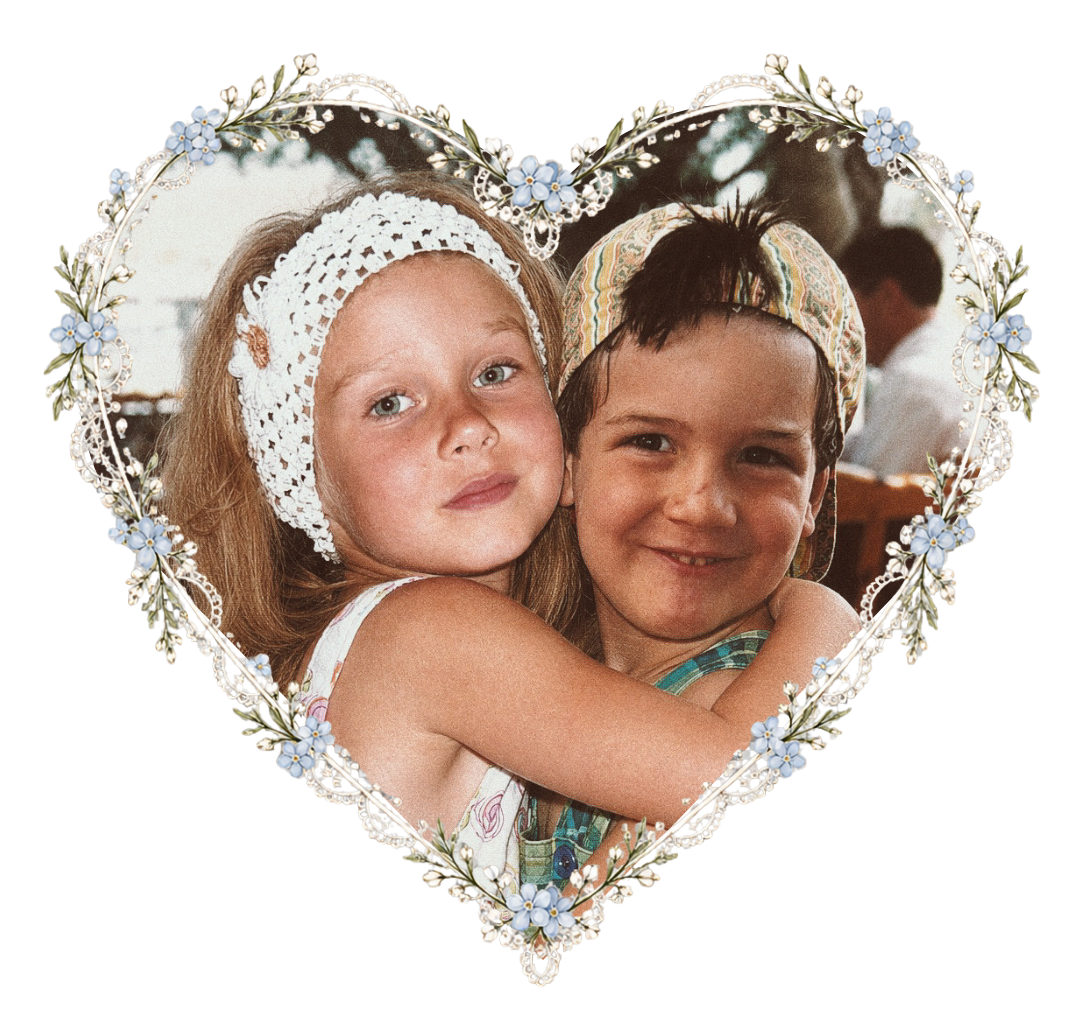
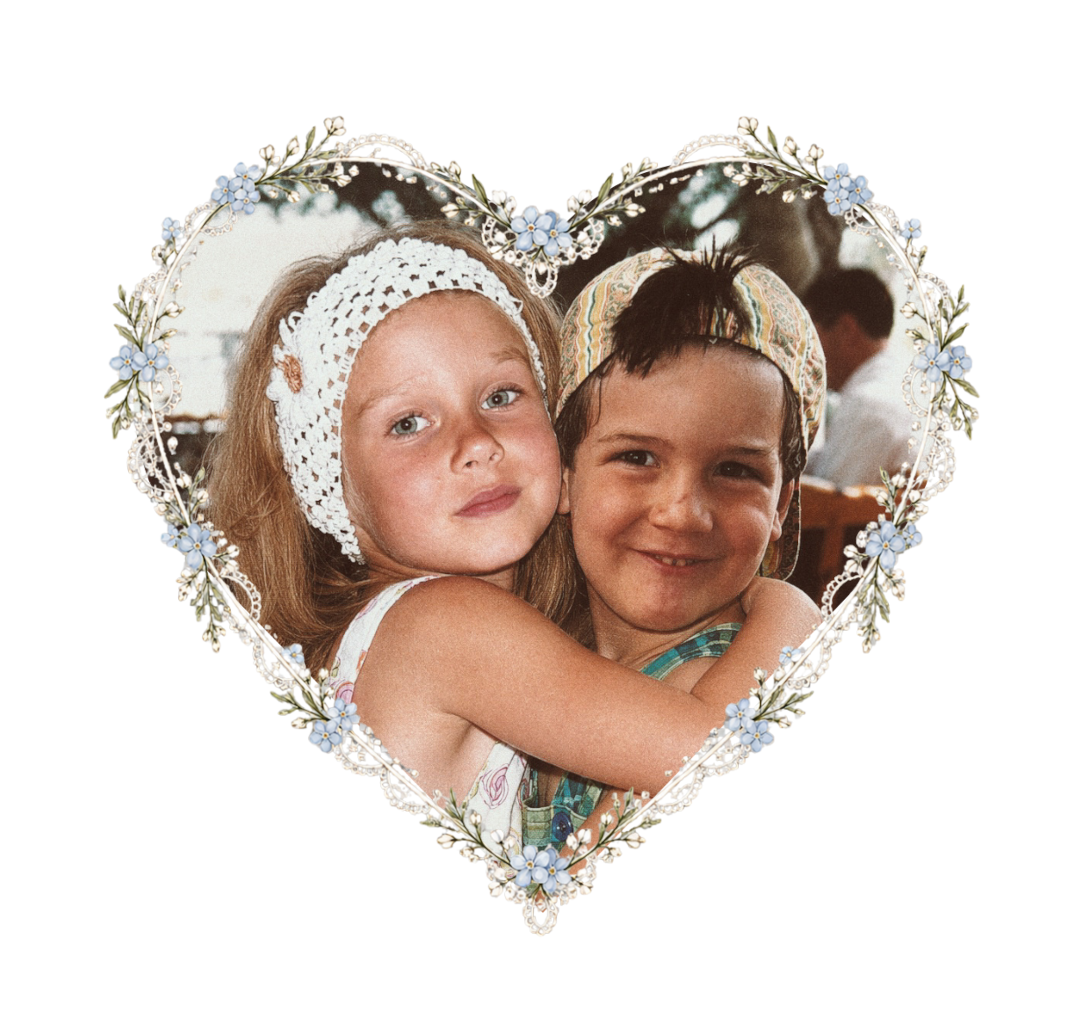
slight recolouring and image adjustement

diff --git a/css/styles.css b/css/styles.css
@@ -6,12 +6,14 @@
   --sky-whisper: #d6e6f2;
   --powder-blue: #b7cce3;
   --dusty-horizon: #87a8c6;
-  --ocean-breeze: #5d7896;
+  --ocean-breeze: #364b74;
+  --ocean-breeze-old: #5d7896;
   --arctic-mist: #e9f1f7;
   --pearl-ivory: #f6f3ec;
   --warm-ivory:#f3efe6;
   --silver-sage: #b9c6be;
   --deep-ocean: #3e5470; /* darker Ocean Breeze for readable body text */
+  --deeper-ocean: #29374a;
   --ivory:#f2ede0;
 
   --color-background: var(--ivory);

diff --git a/schedule.html b/schedule.html
@@ -1,8 +1,8 @@
 <h2 data-i18n="common.schedule"></h2>
 
 <div class="photo-split">
-  <img class="photo" src="images/Cattedrale.webp" alt="Cattedrale San Lorenzo">
-  <img class="photo" src="images/Venue.webp" alt="Lovely Venue">
+  <img class="photo" src="images/Cattedrale.jpeg" alt="Cattedrale San Lorenzo">
+  <img class="photo" src="images/Hotel.jpeg" alt="Lovely Venue">
 </div>
 
 <ol class="timeline">

diff --git a/public/route_carto.html b/public/route_carto.html
@@ -75,11 +75,11 @@
         }
 
         .route-legend .dot-start {
-            background: #2ecc71;
+            background: rgb(103, 158, 103);
         }
 
         .route-legend .dot-end {
-            background: #8e44ad;
+            background: rgb(180, 118, 180);
         }
 
         .route-legend .dot-parking {
